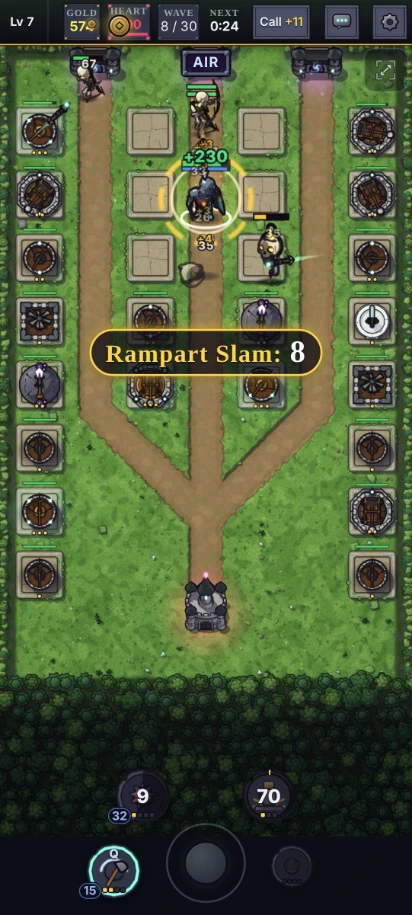
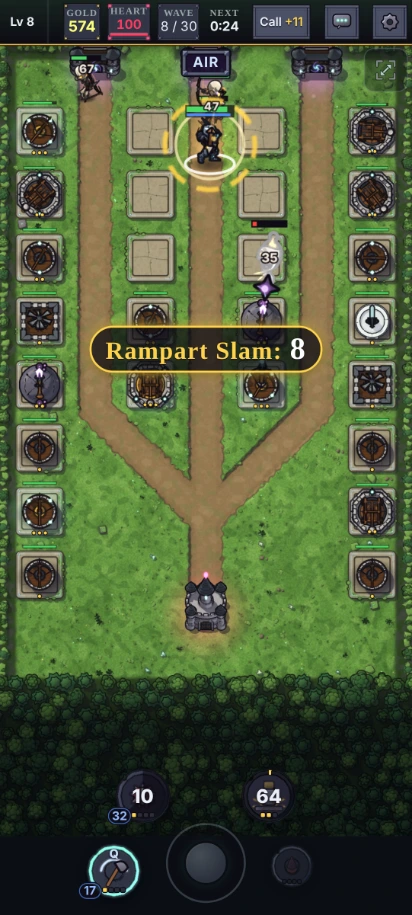
e-press: hold on the wall clock, the popup settled
Claude-Session: https://claude.ai/code/session_01F3BVH2wYsy29pq3JLFQWQf

diff --git a/apps/client/scripts/pressShots.ts b/apps/client/scripts/pressShots.ts
@@ -519,40 +519,34 @@ async function noToast(page: Page, ms = 8000): Promise<void> {
 }
 
 /**
- * Holds the frame (as `hold`) once an element matching `selector` is `ms` into its CSS animation, from inside the page,
- * so the moment is not late by a round trip; `held` resolves once it is held.
+ * Holds the frame (as `hold`) `ms` after an element matching `selector` is put in the page, from inside the page so the
+ * moment is not late by a round trip; `held` resolves once it is held. On a page this busy (a software GPU at 2.625×)
+ * an element's CSS animation starts frames late and its clock runs behind, so at the hold the element's own animation
+ * is brought to `settle` ms in (an entrance shown as it stands a moment later; the world is the held instant).
  */
-async function armHold(page: Page, selector: string, ms: number): Promise<{ held: () => Promise<void> }> {
+async function armHold(page: Page, selector: string, ms: number, settle = 0): Promise<{ held: () => Promise<void> }> {
   await page.evaluate(
-    ([sel, delay]) => {
+    ([sel, delay, to]) => {
       const w = window as any;
       w.__pressHeld = false;
       const freeze = () => {
         w.__tdt.pause?.(true);
+        const el = document.querySelector(sel as string);
+        for (const a of el?.getAnimations({ subtree: true }) ?? []) if (Number(a.currentTime ?? 0) < (to as number)) a.currentTime = to as number;
         for (const a of document.getAnimations()) a.pause();
         w.__pressRaf ??= window.requestAnimationFrame;
         w.__pressFrames = [];
         window.requestAnimationFrame = (cb) => (w.__pressFrames.push(cb), 0);
         w.__pressHeld = true;
       };
-      // `ms` into the element's own animation (on a busy page an animation starts frames after the element is in).
-      let since = 0;
-      const due = () => {
-        const el = document.querySelector(sel as string);
-        const a = el?.getAnimations({ subtree: true })[0];
-        since ||= performance.now();
-        const at = a ? Number(a.currentTime ?? 0) : performance.now() - since;
-        if (at >= (delay as number)) freeze();
-        else setTimeout(due, 8);
-      };
       const seen = new MutationObserver(() => {
         if (!document.querySelector(sel as string)) return;
         seen.disconnect();
-        due();
+        setTimeout(freeze, delay as number);
       });
-      seen.observe(document.body, { childList: true, subtree: true });
+      seen.observe(document.body, { childList: true, subtree: true, attributes: true, attributeFilter: ['class'] });
     },
-    [selector, ms] as const,
+    [selector, ms, settle] as const,
   );
   return {
     held: async () => {
@@ -847,7 +841,8 @@ async function shot3(browser: Browser): Promise<void> {
     // Both ultimates within a moment of each other: the bot stops deciding, the Ranger casts, the bot answers.
     bot.acting = false;
     await noToast(page, 3000);
-    const { held } = await armHold(page, '#fuse-ribbon:not(.hidden)', 1100);
+    // A second into the fuse: the combo's strikes landing on the three lanes, the ribbon as it stands a second in.
+    const { held } = await armHold(page, '#fuse-ribbon:not(.hidden)', 1000, 1000);
     await cast(page, 'R');
     bot.send({ t: 'cmd', cmd: { type: 'cast', slot: 'R' } });
     await held();
@@ -903,8 +898,9 @@ async function shot4(browser: Browser, url: string): Promise<void> {
     await page.waitForTimeout(100);
   }
   await learnAll(page);
-  // The popup at full strength (`ult-pop` 2.2 s: 10% to 76%), his guard ring and heal still up, the kills' coins home.
-  const { held } = await armHold(page, '.ult-pop[data-ult="rampartSlam"]', 650);
+  // 180 ms after the slam: the pack falling round him, his guard ring and heal; the popup as it stands once it has
+  // landed (`ult-pop` 2.2 s: full from 10%, settled at 18%).
+  const { held } = await armHold(page, '.ult-pop[data-ult="rampartSlam"]', 180, 420);
   await cast(page, 'R');
   await held();
   await clean(page);
